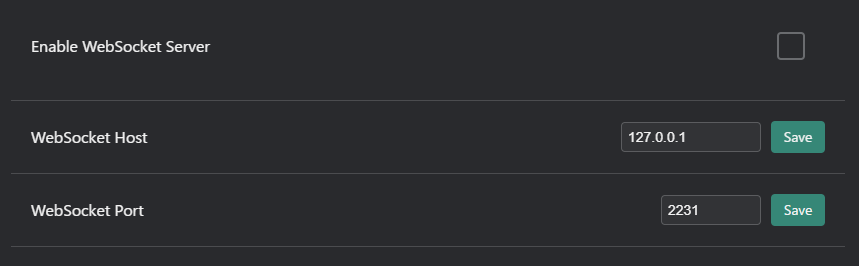
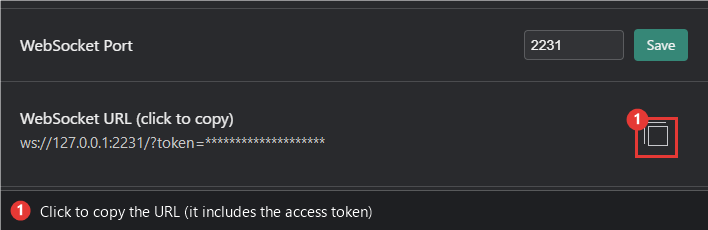
docs: annotate v3.6.0 screenshots and expand the release blog
- Add numbered annotations only where the layout needs explaining
- Use full-window screenshots instead of cropped ones
- Mask the WebSocket access token in the screenshots
- Expand the v3.6.0 blog post with the v3.5.1 -> v3.6.0 changes (EN/JA)

diff --git a/i18n/ja/docusaurus-plugin-content-blog/2026-10-19-vrct-v3-6-0.md b/i18n/ja/docusaurus-plugin-content-blog/2026-10-19-vrct-v3-6-0.md
@@ -1,37 +1,107 @@
 ---
 title: VRCT v3.6.0
-description: チャット読み取り、VR UI（β版）、VADによる音声検出、刷新したアップデート画面を追加しました。
+description: チャット読み取り、VR UI（β版）、VADによる音声検出、刷新したアップデート画面、セキュリティの改善を追加しました。
 slug: vrct-v3-6-0
 date: 2026-10-19
 ---
 
-VRCT **v3.6.0** は、2つの新しい使い方を追加するリリースです。画面上のVRChatチャット吹き出しを読み取る**チャット読み取り**と、VRの中からVRCTを操作できる**VR UI（β版）**です。あわせて、VADによる音声検出、刷新したアップデート画面、セキュリティの改善を行いました。
+VRCT **v3.6.0** は、2つの新しい使い方を追加するリリースです。画面上のVRChatチャット吹き出しを読み取る**チャット読み取り**と、VRの中からVRCTを操作できる**VR UI（β版）**です。あわせて、VADによる音声検出、刷新したアップデート画面、検索できる設定画面、セキュリティと安定性の改善を行いました。この記事は、v3.5.1からの変更点を説明します。
 
 <!-- truncate -->
 
-## 主な変更点
+## 新機能
 
 ### チャット読み取り（OCR）
-- 画面上のVRChatチャット吹き出しを読み取り、通常の翻訳パイプラインで翻訳します。
+
+- VRChatに表示されるチャット吹き出しを読み取り、通常の翻訳パイプラインで翻訳します。
 - 結果はメッセージログとSteamVRオーバーレイに表示されます。VRChatのチャットボックスへは送信されません。
-- 元の言語、キャプチャ対象のウィンドウ名、キャプチャ間隔、認識のしきい値を、新しい**チャット読み取り**タブで設定できます。
+- SteamVRの起動中はSteamVRの画面からVRChatの表示を読み取ります。それ以外の場合は、VRChatのウィンドウを読み取ります。
+- メインウィンドウの**チャット読み取り**トグルスイッチでオン/オフできます。
+- 新しい**チャット読み取り**タブで、次の項目を設定できます。
+  - **元の言語**：自動（日本語、英語、中国語、その他のラテン文字系）、または韓国語、ロシア語、ウクライナ語、タイ語、アラビア語、ヒンディー語。実行中に変更しても、再起動せずに切り替わります。アラビア語の精度は現時点では低めです。
+  - **ウィンドウ名**（初期値：`VRChat`）：ウィンドウタイトルが異なるクライアントを使う場合に変更します。
+  - **キャプチャ間隔**（初期値：750ms）、**最小信頼度**（初期値：0.85）、**最小文字数**（初期値：2文字）。
+- モデルの準備ができていないなどの理由で開始できない場合は、理由を通知します。
 
 ### VR UI（β版）
-- 手首のランチャーで、翻訳、マイク、聞き取り、チャット読み取りをオン/オフできます。
-- フローティングウィンドウで、ログ、言語選択、VR設定を表示します。ウィンドウは移動、サイズ変更、固定、ロックができます。
-- VR設定ウィンドウを開いている間は、翻訳と文字起こしを一時停止します。
+
+- 左手首（右手に変更可能）のランチャーで、翻訳、マイク、聞き取り、チャット読み取りをオン/オフできます。
+- フローティングウィンドウで、**ログ**、**言語**、**VR設定**を表示します。
+  - 各ウィンドウは、コントローラーで移動、押し引き、サイズ変更ができます。
+  - ワールド、左手、右手、頭のいずれかに固定したり、ロックしたりできます。
+  - ウィンドウが視界から外れた場合は**呼び戻す**を使います。
+- ログの文字の大きさは14から28の範囲で変更でき、不透明度は100%、80%、60%、40%の順に切り替わります。
+- **言語**ウィンドウでは、プリセットの切り替え、自分の言語と相手の言語の1つ目の入れ替え、相手の言語の追加と削除（最大3つ）ができます。
+- **VR設定**ウィンドウを開いている間は、翻訳と文字起こしを一時停止します。閉じると再開します。
+- VRタブの**VR UIを表示する**でオンにします。ランチャーが見つからなくなった場合は、**ランチャーの位置と大きさを初期に戻す**を使います。
 
 ### 音声検出（VAD）
-- マイクとスピーカーの感度モードに**VAD（自動）**を追加しました。Silero VADを使い、話し終わるたびに音声を文字起こしに送ります。
 
-### アップデート
-- アップデート画面を作り直しました。リリースチャンネル（安定版またはβ版）、CPU版またはGPU版（CUDA）、インストールするバージョンを1つの画面で選べます。v3.6.0以降のリリースであれば、以前のバージョンも選べます。
-- インストール前に、変わる内容を比較表で確認できます。
+- マイクとスピーカーの感度モードに**VAD（自動）**を追加しました。AIの音声区間検出（Silero VAD）が話し声を見つけ、話し終わるたびに音声を文字起こしに送ります。BGMやゲームの音が流れている場合に役立ちます。
+- マイクとスピーカーには、それぞれ個別に設定できます。VAD（自動）、自動、手動から選択します。
 
-### 設定
-- コンフィグウィンドウ上部から設定を検索できます。
-- 翻訳タブを「AI翻訳（ローカル）」「外部翻訳API」「ローカルLLM・互換サーバー」に分けました。
-- WebSocketサーバーはアクセストークンを必要とするようになりました。トークン付きのURLは、詳細設定タブの「WebSocket URL（クリックでコピー）」からコピーできます。
+### アップデート画面の刷新
+
+- アップデート画面を作り直しました。1つの画面で次の項目を選べます。
+  - **リリースチャンネル**（安定版またはβ版）
+  - **ビルド**（CPU版、またはGPU版（CUDA））
+  - **インストールするバージョン**（v3.6.0以降の過去のリリースを含む）
+- インストールする前に、現在の構成とインストール後の構成を比較した表で確認できます。ダウングレード、チャンネルの切り替え、GPU版（追加で約5GBのダウンロードが必要）では注意が表示されます。
+- ダウンロードしたインストーラーは、公開されているSHA-256チェックサムで検証されます。一致しない場合は、更新を中止します。
+- VRCTからインストーラーを起動すると、インストーラーの言語はVRCTの表示言語に合わせて選ばれます。
+
+### 設定画面
+
+- **検索**：コンフィグウィンドウ上部の検索バーで、設定を名前から探せます。
+- **翻訳タブ**：「AI翻訳（ローカル）」「外部翻訳API」「ローカルLLM・互換サーバー」の3つのセクションに分かれました。
+- **デバイスタブ**：マイクとスピーカーの設定を、それぞれのセクションに分けました。
+- 選択中のエンジンに関係する項目だけを表示します。たとえば、Whisper専用の詳細設定は、Whisperを選択しているときだけ表示されます。
+- 「認証キー」の表記を「APIキー」に統一しました。
+- テキスト入力欄でEnterキーを押すと保存できます。数値入力欄は矢印キーで微調整でき、マウスホイールで値が誤って変わらなくなりました。
+- モデルの一覧で、おすすめのモデルに**デフォルト**と表示されます。
+- ホットキーが他で使われている場合は、黙って失敗せず、エラーを表示します。
+
+## 改善
+
+- 起動時に、翻訳エンジンと文字起こしエンジンの確認を並列に行い、起動を速くしました。
+- 複数の対象言語への翻訳を、並列で行うようにしました。
+- 途切れずに話し続けた場合でも、約15秒ごとに音声を区切るため、文字起こしが遅れ続けません。
+- VRCTをVRChatより先に起動した場合は、VRChatでアバターを読み込むたびにマイクのミュート状態を同期します。
+- マイクの自動選択は、Windowsの既定のデバイスに追従します。仮想オーディオデバイスなどへ勝手に切り替わりません。
+- メイン画面上部の**VRCマイクミュート同期**と**最前面表示**は、ポップアップなしでそのまま切り替えられます。
+- 会話ログや設定ファイルの場所を開いたときに通知を表示します。エラーのトースト通知は、選択してコピーできます。
+- ドロップダウンメニューが親要素で切れなくなりました。外側のクリックやEscキーで閉じられます。
+- AboutVRCTのドキュメントリンクは、表示中の言語のページを開きます。
+- GPU版はPyTorchに依存しなくなりました。
+- Google、Bing、Papagoの内蔵翻訳エンジンを作り直しました。オフラインで起動しても、ネットワークが戻れば翻訳できます。
+- AIモデルのダウンロードに再試行とタイムアウトを追加しました。一時的な通信の切断で「AIモデルが見つからない」と表示されることがなくなりました。
+
+## セキュリティ
+
+- ダウンロードしたアップデートのインストーラーは、SHA-256で検証されます。一致しない場合は更新を中止します。
+- WebSocketサーバーはアクセストークンを必要とします。詳細設定タブの**WebSocket URL（クリックでコピー）**で、トークン付きのURLをコピーできます。OBSブラウザソースは、トークンを自動的に使って接続します。
+- WebSocketのホストに`0.0.0.0`や`::`のようなワイルドカードアドレスを指定できなくなりました。
+- APIキーが、ログや標準出力に平文で出力されないようにしました。
+
+## バグ修正
+
+- WebSocketが異常に切断されると、OBSブラウザソースが真っ白になる問題を修正しました。
+- 音声デバイスの抜き差しや自動選択の切り替えが重なったときに、録音が止まって復帰しない問題を修正しました。
+- マイクにWASAPIのステレオ入力（例：MOTU M Seriesの「In 1-2」）を選ぶと、音量メーターは動くのに文字起こしが出ない問題を修正しました。
+- 起動処理が固まったまま終わらない問題、固まったときに終了できない問題を修正しました。
+- 起動の完了が、GitHubへの更新確認の応答を待って遅れる問題を修正しました。
+- ログ出力が詰まると、アプリ全体が数十秒固まる問題を修正しました。
+- クリップボード機能でウィンドウのフォーカスに失敗したときは、通知を表示するようにしました。
+- 色の設定で無効な値が保存される問題を修正しました。
+- OpenAI互換のURLを空にすると、設定が失われる問題を修正しました。
+- 処理デバイスの一覧に選択中のデバイスがない場合に、設定タブが落ちる問題を修正しました。
+- 設定画面のスライダーで、目盛りやラベルが表示されない問題を修正しました。
+- まれにUIとの通信でパースエラーが起きる問題を修正しました。
+
+## 削除
+
+- **プラグイン**機能を廃止しました。プラグインタブとプラグインウィンドウはなくなりました。
+- AboutVRCTのポスターセクションとローカライズ項目を削除しました。ローカライズの協力者は、スペシャルサンクスに掲載しています。
 
 ## リンク
 

diff --git a/blog/2026-10-19-vrct-v3-6-0.md b/blog/2026-10-19-vrct-v3-6-0.md
@@ -1,37 +1,107 @@
 ---
 title: VRCT v3.6.0
-description: Chat Transcribe, the VR UI (Beta), VAD for voice detection, and a redesigned updater.
+description: Chat Transcribe, the VR UI (Beta), VAD-based voice detection, a redesigned updater, and security improvements.
 slug: vrct-v3-6-0
 date: 2026-10-19
 ---
 
-VRCT **v3.6.0** adds two new ways to use VRCT: **Chat Transcribe**, which reads VRChat chat bubbles on screen, and the **VR UI (Beta)**, which lets you operate VRCT from inside VR. It also brings VAD-based voice detection, a redesigned updater, and security improvements.
+VRCT **v3.6.0** adds two new ways to use VRCT: **Chat Transcribe**, which reads VRChat chat bubbles on screen, and the **VR UI (Beta)**, which lets you operate VRCT from inside VR. It also adds VAD-based voice detection, a redesigned updater, a searchable settings screen, and several security and stability fixes. This post covers the changes since v3.5.1.
 
 <!-- truncate -->
 
-## Highlights
+## New features
 
 ### Chat Transcribe (OCR)
-- Reads VRChat chat bubbles on screen and translates them through the usual translation pipeline.
+
+- Reads the chat bubbles shown in VRChat and translates them through the usual translation pipeline.
 - Results appear in the message log and the SteamVR overlay. They are never sent to the VRChat chatbox.
-- Choose the source language, the capture window name, the capture interval, and the recognition thresholds in the new **Chat Transcribe** tab.
+- While SteamVR is running, the VRChat view is read from SteamVR. Otherwise, the VRChat window is read.
+- Turn it on and off with the **Chat Transcribe** switch in the main window.
+- The new **Chat Transcribe** tab lets you choose:
+  - **Source language**: Auto (Japanese, English, Chinese, and other Latin-script languages), or Korean, Russian, Ukrainian, Thai, Arabic, or Hindi. Changing the language while it runs switches without a restart. Arabic accuracy is currently low.
+  - **Window name** (default: `VRChat`), for clients with a different window title.
+  - **Capture interval** (default: 750 ms), **Minimum confidence** (default: 0.85), and **Minimum text length** (default: 2 characters).
+- If it cannot start, for example because the model is not ready, VRCT shows a notification with the reason.
 
 ### VR UI (Beta)
-- A launcher on your wrist turns Translation, Microphone, Listen, and Chat Transcribe on and off.
-- Floating windows show the log, the language selection, and the VR settings. They can be moved, resized, anchored, and locked.
-- Translation and transcription pause while the VR settings window is open.
+
+- A launcher on your left wrist (you can switch hands) turns Translation, Microphone, Listen, and Chat Transcribe on and off.
+- Floating windows show the **Log**, **Language**, and **VR settings**.
+  - Move, push, pull, and resize each window with your controller.
+  - Anchor a window to the world, your left or right hand, or your head, and lock it in place.
+  - If a window goes out of view, use **Recall**.
+- Log text size ranges from 14 to 28, and the opacity steps through 100%, 80%, 60%, and 40%.
+- Use the **Language** window to switch presets, swap your language with the first recipient language, and add or remove up to three recipient languages.
+- While the **VR settings** window is open, translation and transcription pause, and they resume when you close it.
+- Turn it on with **Show the VR UI** in the VR tab. If the launcher is lost, use **Reset the launcher position and size**.
 
 ### Voice detection (VAD)
-- The mic and speaker sensitivity modes now include **VAD (Auto)**, which uses Silero VAD to send audio to transcription each time you finish speaking.
+
+- The mic and speaker sensitivity modes now include **VAD (Auto)**. An AI voice activity detector (Silero VAD) finds speech and sends each utterance to transcription when you finish speaking. This helps when background music or game sound is playing.
+- Each of the mic and speaker has its own setting. Choose VAD (Auto), Auto, or Manual.
 
 ### Updater
-- The updater screen is redesigned. You can choose the release channel (Stable or Beta), the CPU or GPU (CUDA) build, and the version to install, including an earlier release from v3.6.0 onward.
-- A comparison table shows what changes before you install.
+
+- The update screen is redesigned. In one place you can choose:
+  - The **release channel** (Stable or Beta)
+  - The **build** (CPU, or GPU (CUDA))
+  - The **version** to install, including earlier releases from v3.6.0 onward
+- Before you install, a table compares the current setup with the setup after installation. Warnings appear for downgrades, channel switches, and the GPU build, which needs about 5 GB of additional download.
+- The downloaded installer is checked against its published SHA-256 checksum. If the checksum does not match, the update is cancelled.
+- When you start the installer from VRCT, the installer language follows VRCT's display language.
 
 ### Settings
-- Search the settings from the top of the Config Window.
-- The translation tab is grouped into AI Translation (Local), External Translation API, and Local LLM & Compatible Server.
-- The WebSocket server now requires an access token. Use **WebSocket URL (click to copy)** in the Advanced Settings tab to get the URL with the token.
+
+- **Search**: Type in the search bar at the top of the Config Window to find a setting.
+- **Translation tab**: grouped into AI Translation (Local), External Translation API, and Local LLM & Compatible Server.
+- **Device tab**: the mic and speaker settings are split into their own sections.
+- Only the options that apply to the selected engine are shown. For example, the Whisper-only advanced settings appear only when Whisper is selected.
+- The "Auth Key" label is now "API Key" throughout.
+- You can press Enter to save a text entry. Number fields accept the arrow keys for fine adjustment, and the mouse wheel no longer changes their values by accident.
+- The model lists show a **Default** label on the recommended model.
+- If a hotkey is already used, VRCT shows an error instead of silently failing.
+
+## Improvements
+
+- Startup checks the translation and transcription engines in parallel, so VRCT starts faster.
+- Translation into several target languages runs in parallel.
+- If you keep speaking without a pause, VRCT still splits the audio about every 15 seconds, so transcription does not fall behind.
+- When VRCT starts before VRChat, the mic mute state is synced each time you load an avatar in VRChat.
+- The mic's automatic selection follows the Windows default device. VRCT no longer switches to a virtual audio device on its own.
+- The **VRC Mic Mute Sync** and **Set To Stay On Top** switches in the top bar toggle directly, without a pop-up.
+- Notifications appear when you open the conversation log or settings folder. Toast error messages can be selected and copied.
+- Dropdown menus are no longer clipped by their parent element, and they close on an outside click or the Esc key.
+- The About VRCT documentation link opens in the language you are using.
+- The GPU build no longer depends on PyTorch.
+- The built-in web translation engines (Google, Bing, and Papago) were reimplemented. VRCT can start offline and translate once the network returns.
+- AI model downloads retry and time out when the connection drops, so a temporary network error no longer shows "model not found".
+
+## Security
+
+- Downloaded updates are verified with SHA-256, and the update is aborted on a mismatch.
+- The WebSocket server requires an access token. Use **WebSocket URL (click to copy)** in the Advanced Settings tab to copy the URL with the token. The OBS Browser Source connects with the token automatically.
+- The WebSocket host can no longer be set to a wildcard address such as `0.0.0.0` or `::`.
+- API keys are no longer written in plain text to logs or the standard output.
+
+## Bug fixes
+
+- The OBS Browser Source no longer goes blank after an abnormal WebSocket disconnect.
+- Recording no longer stops and fails to resume after audio devices are unplugged or auto-selection is toggled.
+- A microphone set to WASAPI stereo input (for example, MOTU M Series "In 1-2") no longer shows a working level meter with no transcription.
+- Startup no longer hangs indefinitely, and VRCT can be closed while it is hanging.
+- Startup no longer waits for the GitHub update check.
+- Heavy log output no longer freezes the whole app for tens of seconds.
+- A clipboard paste that cannot focus the target window now shows a notification.
+- Invalid color values are no longer saved.
+- Clearing the OpenAI-compatible URL no longer wipes the other settings.
+- The Config Window no longer crashes when the selected processing device is missing from the list.
+- Slider tick marks and labels are shown again in the settings.
+- A rare parse error in the communication with the UI is fixed.
+
+## Removed
+
+- The **plugin** feature has been discontinued. The Plugins tab and the plugin window are gone.
+- The poster section and the localization credits in About VRCT have been removed. Localization contributors are listed in the Special Thanks section.
 
 ## Links
 
